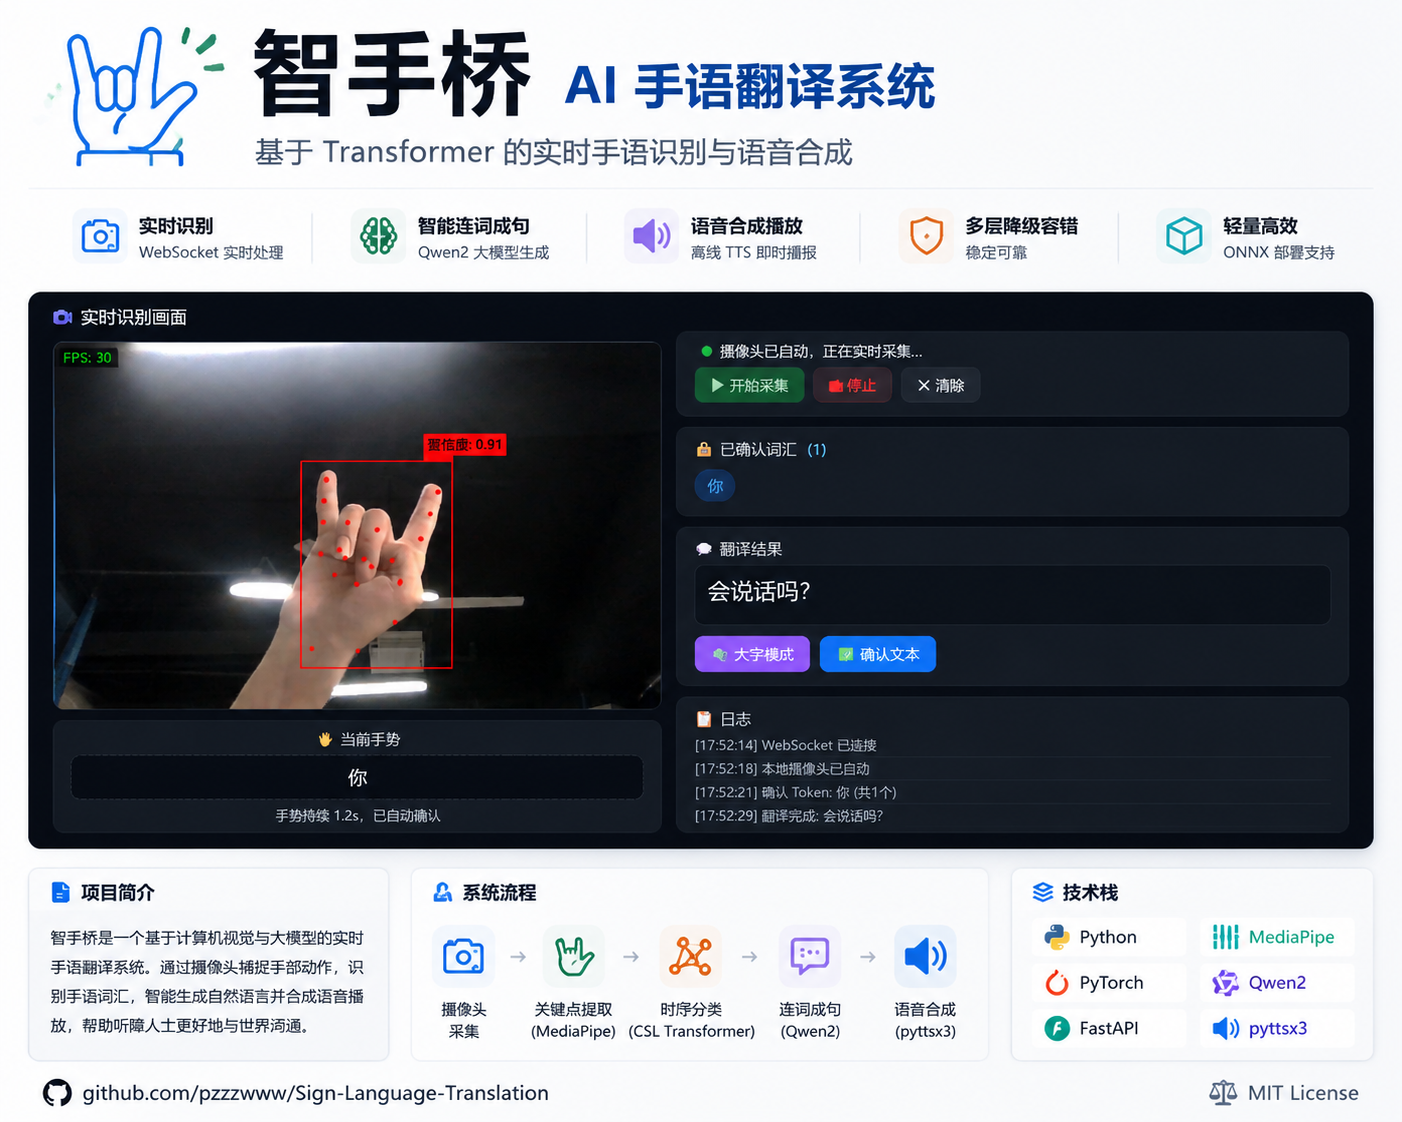
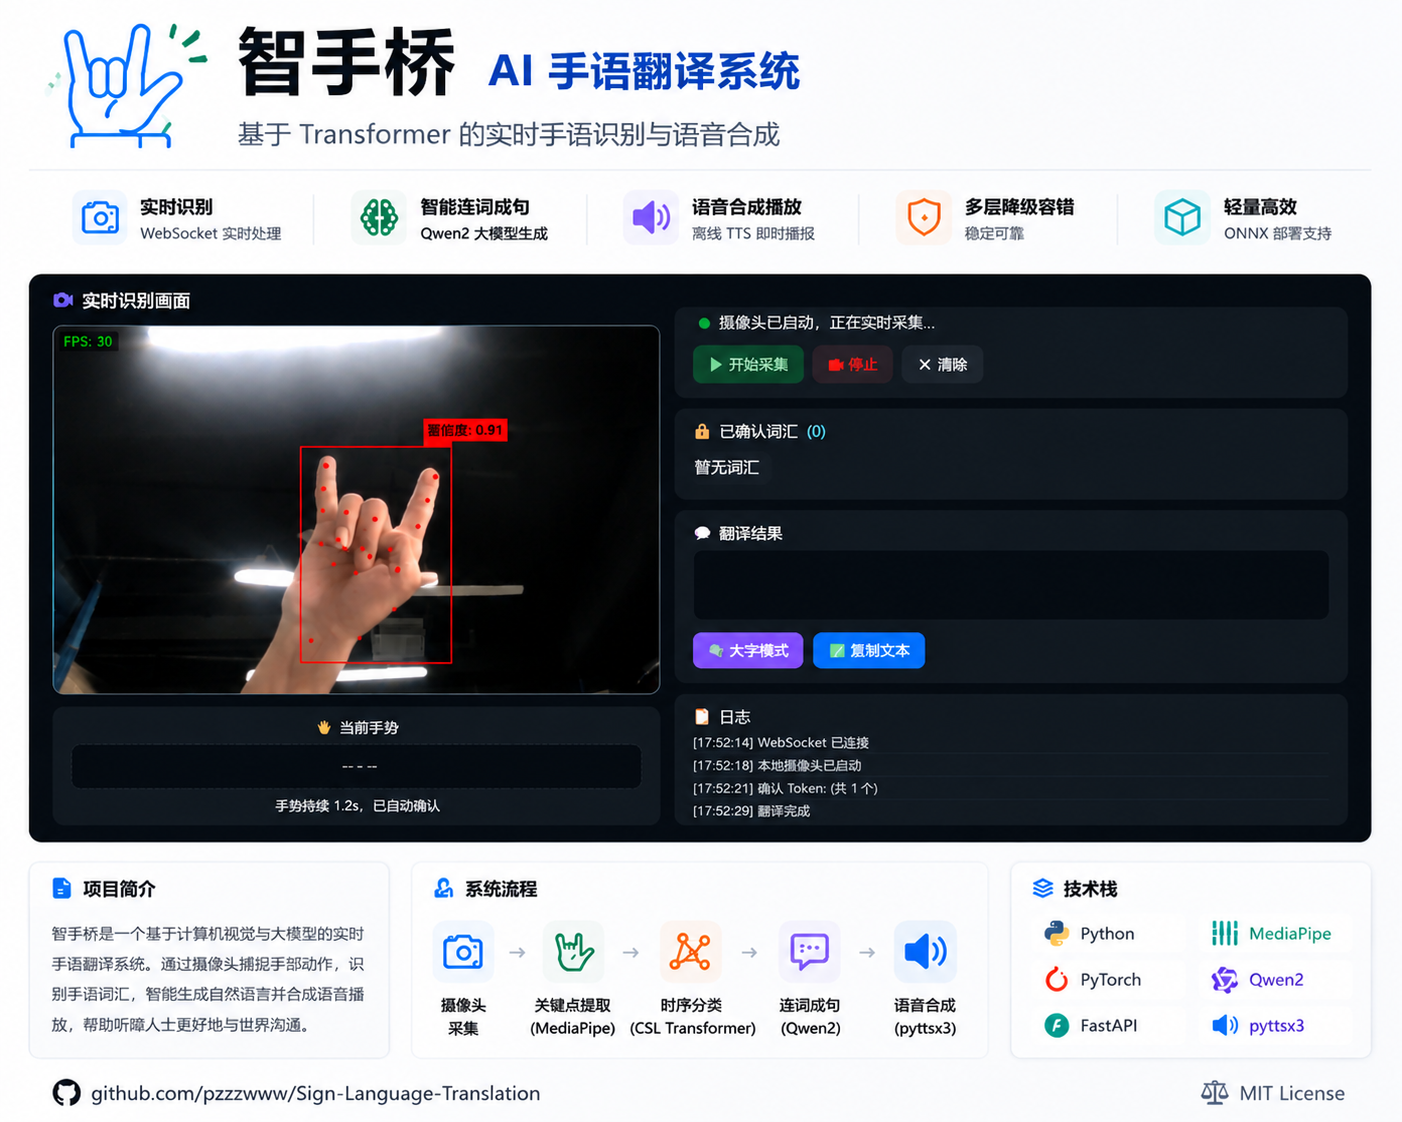
docs: replace deprecated align with pure markdown, update demo screenshot

diff --git a/README.md b/README.md
@@ -1,21 +1,13 @@
-<div align="center">
-
 # Sign Language Translation
 
-### 基于 Transformer 的实时手语识别与语音合成系统
-
-让无声的表达被听见
+> 基于 Transformer 的实时手语识别与语音合成系统 — 让无声的表达被听见
 
 [![License](https://img.shields.io/badge/license-MIT-green)](LICENSE)
 [![Python](https://img.shields.io/badge/python-3.10+-blue)](https://www.python.org/)
 [![PyTorch](https://img.shields.io/badge/PyTorch-2.5+-orange)](https://pytorch.org/)
 [![FastAPI](https://img.shields.io/badge/FastAPI-0.115+-teal)](https://fastapi.tiangolo.com/)
 
-</div>
-
-<div align="center">
-  <img src="assets/demo.png" alt="项目效果图" width="800">
-</div>
+![项目效果图](assets/demo.png)
 
 ---
 